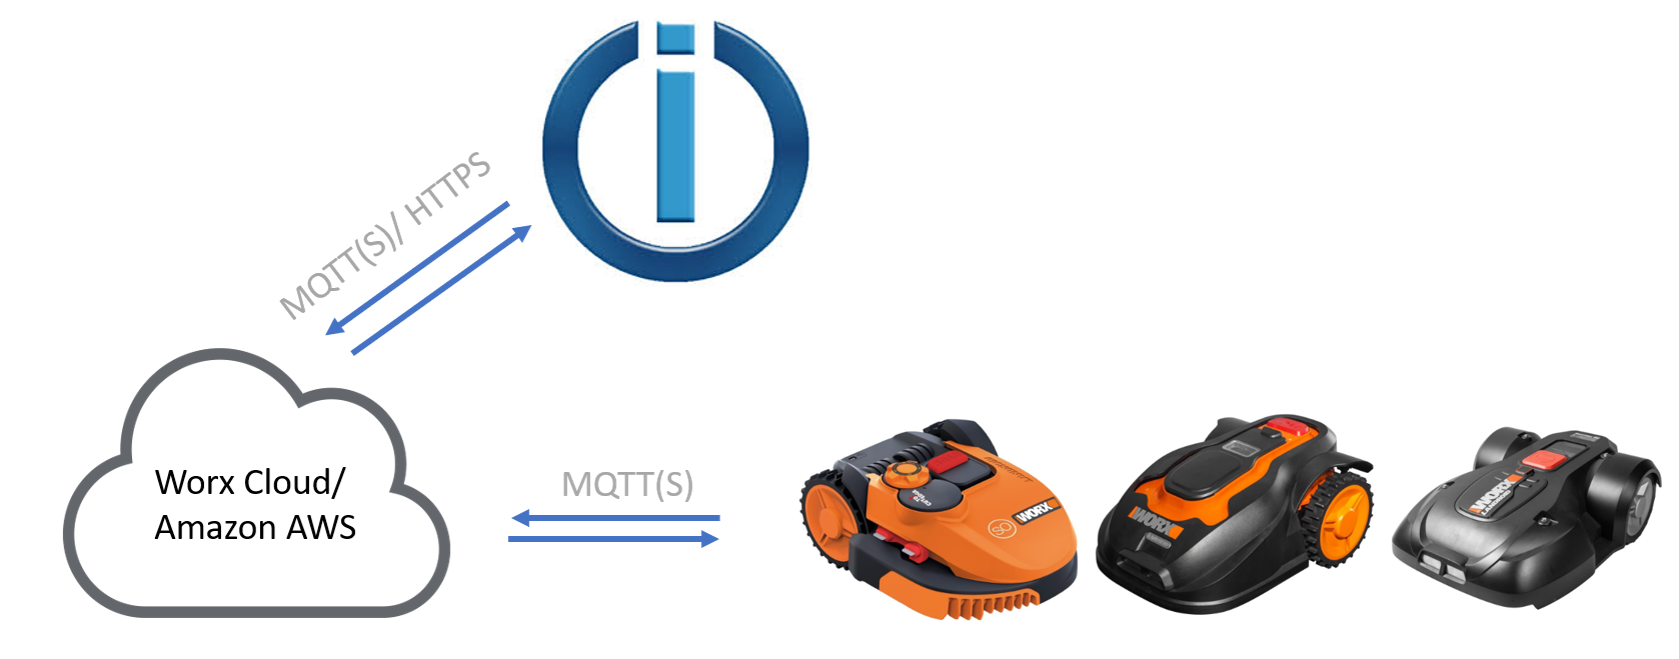
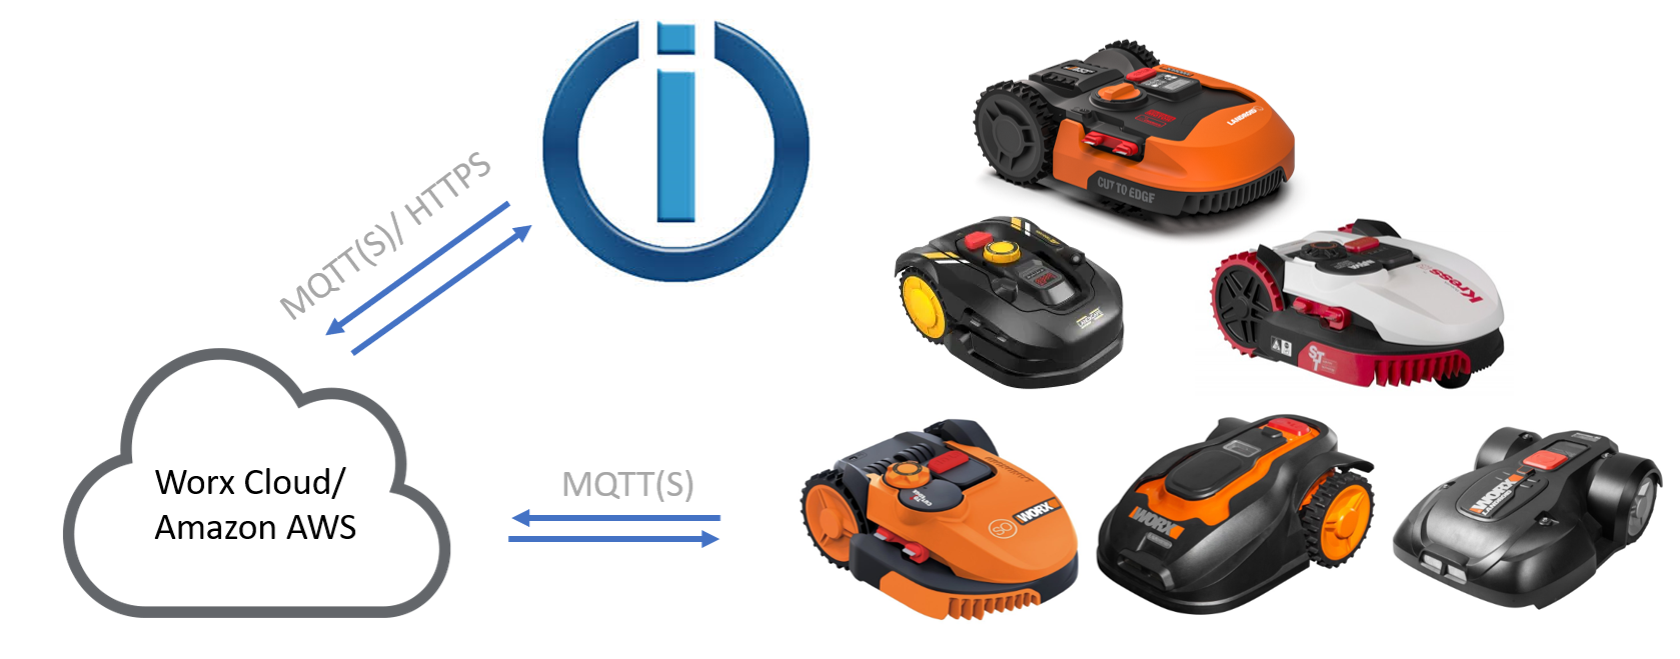
update readme

Changed region(s): [[0.5265, 0.0607, 0.8982, 0.607]]

diff --git a/README.md b/README.md
@@ -8,11 +8,11 @@
 ![Logo](admin/worx.png)
 # ioBroker.worx
 
-## Worx adapter for ioBroker
+## Worx (Kress and Landxcape) adapter for ioBroker
 
 control via cloud and mqtt
 
-This adapter connects IoBroker with your Landroid S/M/L via Cloud. 
+This adapter connects IoBroker with your Landroid Kress or Landxcape mower via Cloud. 
 Temperatures, mowing times, battery level and various other data are read out from the mower.
 The adapter can control the mower and you can change config params like mowtimes.
 
